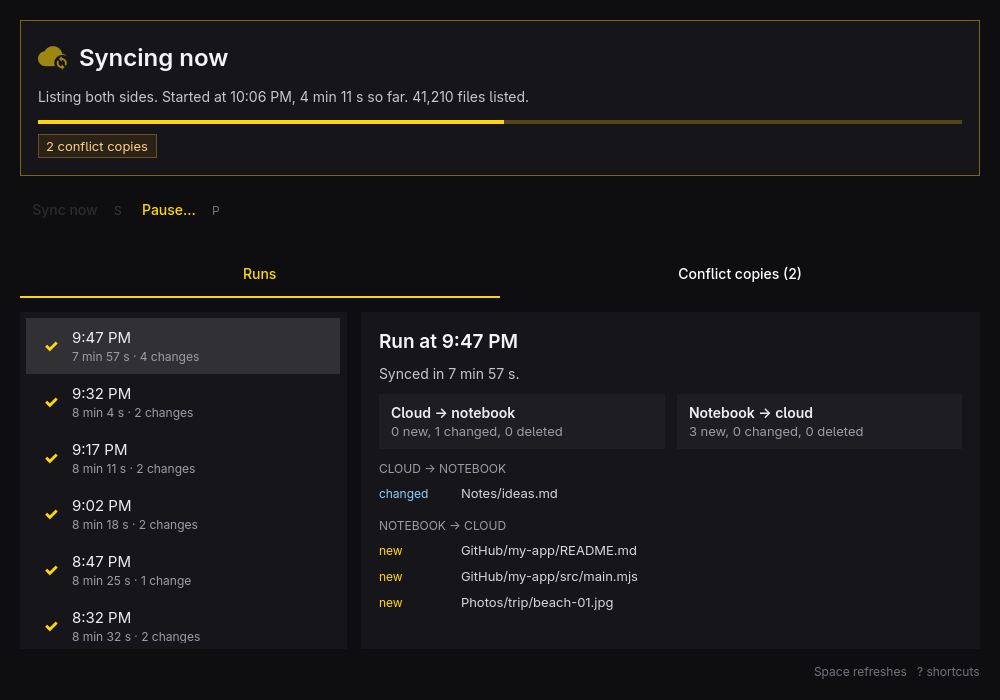
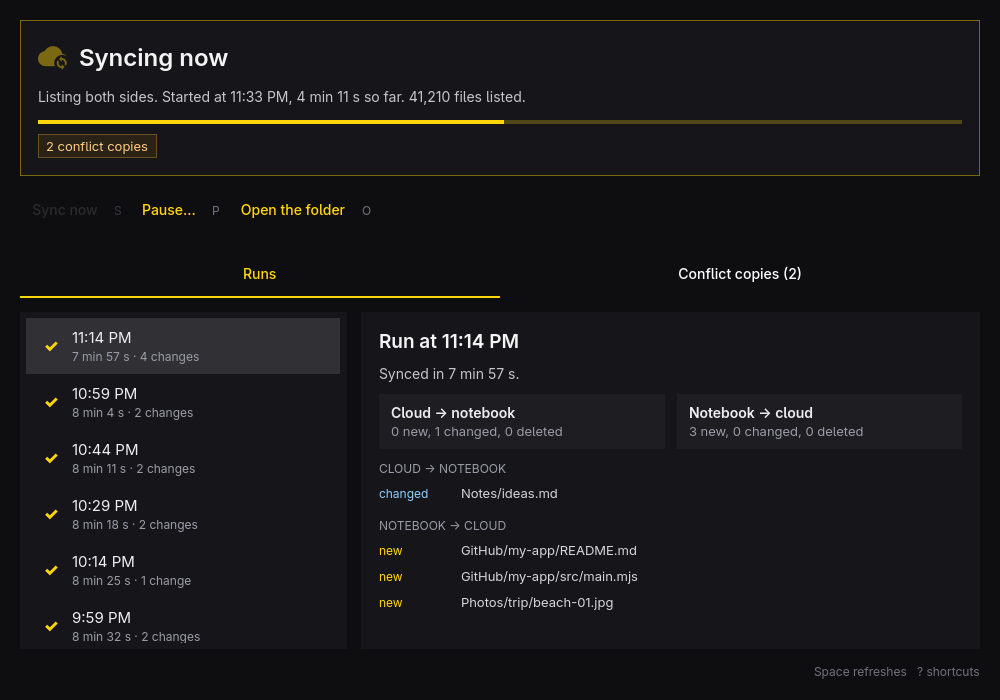
feat: open the Drive folder from the window
- O, or the new "Open the folder" button next to sync and pause, shows
  ~/Drive in the running file manager (FileManager1.ShowFolders, then
  the desktop's default handler), as the bar panel already did.
- A missing folder or no file manager answering is said in the window
  instead of doing nothing.
- The shortcuts overlay, the README key table and the window pictures
  show the new key.

diff --git a/src/ControlsRow.qml b/src/ControlsRow.qml
@@ -3,8 +3,8 @@ import QtQuick.Controls
 import QtQuick.Controls.Material
 import QtQuick.Layouts
 
-// Sync now, pause and resume, each with its key. Pause and resume need
-// DriveSync to run drive-sync, so they show only after a takeover.
+// Sync now, pause and resume, and the Drive folder, each with its key. Pause
+// and resume need DriveSync to run drive-sync, so they show only after a takeover.
 RowLayout {
     id: row
 
@@ -51,6 +51,11 @@ RowLayout {
         text: qsTr("Resume")
         key: "U"
         onActivated: backend.resume()
+    }
+    KeyButton {
+        text: qsTr("Open the folder")
+        key: "O"
+        onActivated: backend.openDriveFolder()
     }
     Item { Layout.fillWidth: true }
 }

diff --git a/src/Main.qml b/src/Main.qml
@@ -68,6 +68,7 @@ ApplicationWindow {
     Shortcut { sequence: "Esc"; context: Qt.ApplicationShortcut; enabled: takeoverDialog.visible; onActivated: takeoverDialog.close() }
     Shortcut { sequence: "Q"; context: Qt.ApplicationShortcut; onActivated: Qt.quit() }
     Shortcut { sequence: "Space"; context: Qt.ApplicationShortcut; onActivated: backend.refresh() }
+    Shortcut { sequence: "O"; context: Qt.ApplicationShortcut; enabled: !win.dialogOpen; onActivated: backend.openDriveFolder() }
     Shortcut {
         sequence: "B"
         context: Qt.ApplicationShortcut

diff --git a/src/HelpOverlay.qml b/src/HelpOverlay.qml
@@ -18,6 +18,7 @@ Rectangle {
         { keys: "↑ ↓   J K", what: qsTr("Move through the list") },
         { keys: "Enter", what: qsTr("Show the picked conflict copy in the file manager") },
         { keys: "S", what: qsTr("Sync now") },
+        { keys: "O", what: qsTr("Open the Drive folder") },
         { keys: "P   U", what: qsTr("Pause, and resume, once DriveSync runs drive-sync") },
         { keys: "T", what: qsTr("Let DriveSync run drive-sync, when offered") },
         { keys: "B", what: qsTr("Put DriveSync on the Omarchy bar, when offered") },

diff --git a/src/backend.cpp b/src/backend.cpp
@@ -455,6 +455,27 @@ void Backend::setMessage(const QString &message) {
     emit messageChanged();
 }
 
+void Backend::openDriveFolder() {
+    const QString drive = QDir(m_paths.drive).absolutePath();
+    if (!QFileInfo(drive).isDir()) {
+        setMessage(tr("%1 isn't there.").arg(drive));
+        return;
+    }
+    // The running file manager over D-Bus, as for a conflict copy; without
+    // it, whatever opens folders.
+    QDBusMessage call = QDBusMessage::createMethodCall("org.freedesktop.FileManager1", "/org/freedesktop/FileManager1",
+                                                       "org.freedesktop.FileManager1", "ShowFolders");
+    call << QStringList{QUrl::fromLocalFile(drive).toString()} << QString();
+    auto *watcher = new QDBusPendingCallWatcher(QDBusConnection::sessionBus().asyncCall(call, 5000), this);
+    connect(watcher, &QDBusPendingCallWatcher::finished, this, [this, watcher, drive] {
+        watcher->deleteLater();
+        if (!watcher->isError())
+            return;
+        if (!QDesktopServices::openUrl(QUrl::fromLocalFile(drive)))
+            setMessage(tr("No file manager answered for %1.").arg(drive));
+    });
+}
+
 void Backend::showInFileManager(const QString &relativePath) {
     const QString absolute = QDir(m_paths.drive).filePath(relativePath);
     if (!QFileInfo::exists(absolute)) {

diff --git a/tests/drivesync_tests.cpp b/tests/drivesync_tests.cpp
@@ -2536,6 +2536,20 @@ private slots:
         QVERIFY(!backend.canSyncNow());
     }
 
+    // O with no Drive folder says so instead of opening nothing.
+    void backendOpenDriveFolderSaysWhenItIsMissing()
+    {
+        QTemporaryDir dir;
+        const QDateTime start = QDateTime::currentDateTime().addSecs(-600);
+        QVERIFY(write(dir.filePath("drive-sync.log"), successfulRun(start, 480).toUtf8()));
+        BackendPaths paths{dir.filePath("drive-sync.log"), dir.filePath("Drive"), dir.filePath("state"),
+                           dir.filePath("proc"), fakeSystemctl(dir.path(), start),
+                           QStandardPaths::findExecutable("find"), dir.filePath("app")};
+        Backend backend(paths);
+        backend.openDriveFolder();
+        QCOMPARE(backend.message(), QString("%1 isn't there.").arg(dir.filePath("Drive")));
+    }
+
     void backendSyncNowReportsAFailure()
     {
         QTemporaryDir dir;

diff --git a/src/backend.h b/src/backend.h
@@ -85,6 +85,8 @@ public:
     Q_INVOKABLE void refresh();
     // Opens the file manager on a conflict copy, given relative to the drive.
     Q_INVOKABLE void showInFileManager(const QString &relativePath);
+    // ~/Drive itself, as the bar's O opens it.
+    Q_INVOKABLE void openDriveFolder();
     // The same commands the bar and the terminal use; a refusal or a failure
     // shows as the message.
     Q_INVOKABLE void syncNow();

diff --git a/CLAUDE.md b/CLAUDE.md
@@ -63,7 +63,7 @@ src/RunsPage.qml        run list; RunDetail.qml shows the picked run
 src/ConflictsPage.qml   conflict copies
 src/HelpOverlay.qml     "?" overlay
 src/BarBanner.qml       offer to put the widget on the bar (B), or why it could not
-src/ControlsRow.qml     sync now (S), pause (P), resume (U)
+src/ControlsRow.qml     sync now (S), pause (P), resume (U), open ~/Drive (O)
 src/PauseMenu.qml       the three pause lengths (1, 2, 3)
 src/TakeoverBanner.qml  offer to take over (T), or what blocks it; TakeoverDialog.qml confirms
 src/format.js           relative times, durations, sizes
@@ -81,7 +81,7 @@ assets/images/          README pictures: window-*.png from bin/harness over a ma
 
 ```sh
 bin/build            # about 30 s from clean
-bin/test             # 120 cases, about 5 s (one runs real rclone on temp folders)
+bin/test             # 121 cases, about 5 s (one runs real rclone on temp folders)
 bin/install          # needs sudo (pacman -U); run it in a real terminal
 bin/harness --scenario running --clock "h:mm AP" --out build/shot.png   # the window offscreen, made-up data; options atop tools/harness/harness.cpp
 makepkg -f           # from pkgbuild/, with BUILDDIR and PKGDEST set as in bin/install, to check packaging without sudo

diff --git a/CHANGELOG.md b/CHANGELOG.md
@@ -29,6 +29,7 @@ and this project adheres to [Semantic Versioning](https://semver.org/spec/v2.0.0
 - `?` in the bar panel lists its keys, in place of the key names beside the icons, which cut the last one off. The key that opens DriveSync from the panel is now `W`: `l` moved the cursor, so `L` only worked with Shift.
 - `drivesync run` adds `--fast-list` to the bisync command unless the config turns ListR off. Against Google Drive the listing went from 476 s to 40 s for 33k files, with the same listing, so a run takes about a minute instead of eight; it needs no resync.
 - `bin/harness` draws the window offscreen over a made-up drive-sync and saves it as a PNG, without opening anything on the desktop. The window pictures in the README come from it.
+- The window opens `~/Drive` with `O` or its "Open the folder" button, as the bar does, through the running file manager.
 
 ### 🔧 Changed
 

diff --git a/README.md b/README.md
@@ -56,6 +56,7 @@ also owns `~/.config/drivesync/` and the `drive-sync` user timers.
 | `↑` `↓`, `J` `K` | Move through the list                             |
 | `Enter`          | Show the picked conflict copy in the file manager |
 | `S`              | Sync now                                          |
+| `O`              | Open the Drive folder                             |
 | `P`              | Pause for 1 hour, until 8:00 or until resumed     |
 | `U`              | Resume, and start a run                           |
 | `T`              | Let DriveSync run drive-sync, when offered        |
